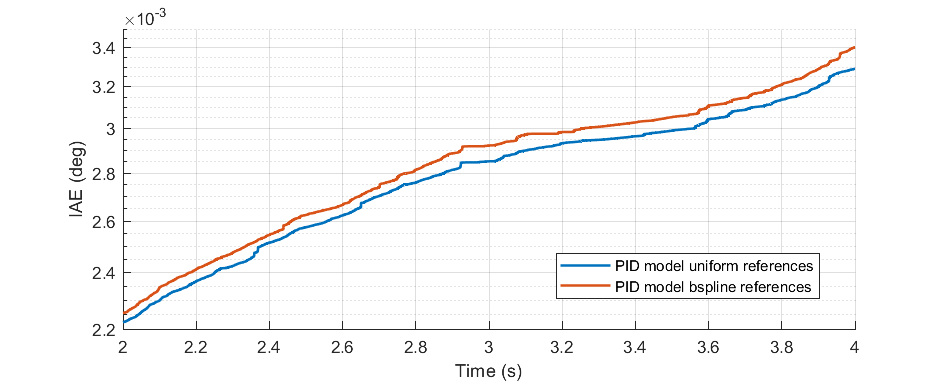
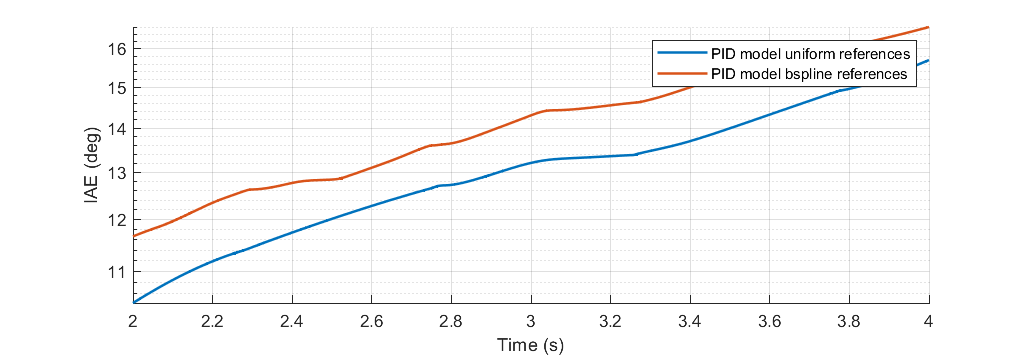
sync

diff --git a/Simulink_Simulation/Lizzy/sim_plotter.m b/Simulink_Simulation/Lizzy/sim_plotter.m
@@ -1,5 +1,5 @@
 function [xData_th1, yData_th2] = get_Data_from(data, L1, L2, flag)
-    if string(flag) == 'thetas'
+    if string(flag) == "thetas"
         th1Data = data.get('th1').Values.Data;
         th2Data = data.get('th2').Values.Data;
     else
@@ -13,13 +13,13 @@ end
 
 function plot_shape(data, L1, L2, start)
     %plot response
-    [xData, yData] = get_Data_from(data, L1, L2,'thetas');
+    [xData, yData] = get_Data_from(data, L1, L2,"thetas");
     % Initial point
     % plot(xData_1(1), yData_1(1), 'o', 'MarkerSize', 5,'MarkerFaceColor', [0, 0.4470, 0.7410]); 
     plot(xData(start:end), yData(start:end),'b','LineWidth', 1.5);
     
     %plot references
-    [xData, yData] = get_Data_from(data, L1, L2,'response');
+    [xData, yData] = get_Data_from(data, L1, L2,"response");
     plot(xData(start:end), yData(start:end),'r','LineWidth', 1.5);
 end
 
@@ -40,7 +40,7 @@ hold on;
 % scatter(col, row, 0.5, 'MarkerFaceColor', '#D3D3D3', ...  % Grey color
 %         'MarkerEdgeColor', '#D3D3D3', 'MarkerFaceAlpha', 0);  % Set opacity
 
-start = 1000; 
+start = 1; 
 plot_shape(PID_bspline, L1, L2, start);
 
 %Graph settings ----------------------------
